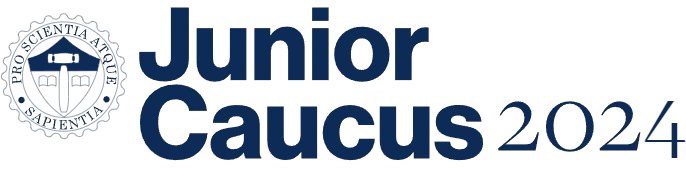
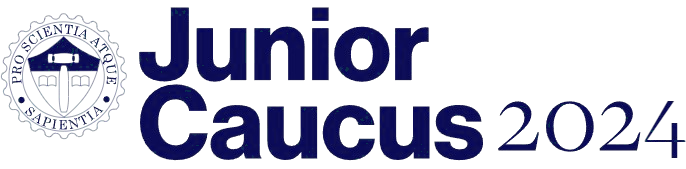
Co-authored-by: Ardian Agoes <ardianagoes@users.noreply.github.com>

diff --git a/src/comps/Contact.jsx b/src/comps/Contact.jsx
@@ -40,6 +40,22 @@ const Contact = () => {
       <Typography variant="body1" align="center">
         © 2024 Junior Caucus.
       </Typography>
+      <Typography variant="body1" align="center" class="thanks">
+        Special thanks to our Junior Caucus IT Team:
+      </Typography>
+      <Box className="developer-columns">
+        <Box className="developer-column" align="center">
+          <Typography variant="body1">Kalimul Kaif</Typography>
+          <Typography variant="body1">David Lee</Typography>
+          <Typography variant="body1">Ting Ting Zhang</Typography>
+        </Box>
+        <Box className="divider" />
+        <Box className="developer-column" align="center">
+          <Typography variant="body1">Jiewen Huang</Typography>
+          <Typography variant="body1">Ardian Agoes</Typography>
+          <Typography variant="body1">Alvin Sze</Typography>
+        </Box>
+      </Box>
       <Typography variant="body1" align="center">
         Co-Presidents:
         <Link
@@ -92,22 +108,6 @@ const Contact = () => {
         </Link>
       </Typography>
       <br />
-      <Typography variant="body1" align="center">
-        Special thanks to our Junior Caucus IT Team:
-      </Typography>
-      <Box className="developer-columns">
-        <Box className="developer-column" align="center">
-          <Typography variant="body1">Kalimul Kaif</Typography>
-          <Typography variant="body1">David Lee</Typography>
-          <Typography variant="body1">Ting Ting Zhang</Typography>
-        </Box>
-        <Box className="divider" />
-        <Box className="developer-column" align="center">
-          <Typography variant="body1">Jiewen Huang</Typography>
-          <Typography variant="body1">Ardian Agoes</Typography>
-          <Typography variant="body1">Alvin Sze</Typography>
-        </Box>
-      </Box>
     </Box>
   );
 };

diff --git a/src/pages/Jprom.css b/src/pages/Jprom.css
@@ -1,5 +1,22 @@
 @import url("https://fonts.googleapis.com/css2?family=Lora:wght@400;700&display=swap");
 
+.fundraisingTitleCaption{
+  display: flex;
+  flex-direction: column;
+}
+.fundraisingImg{
+  display: flex;
+  flex-direction: row;
+}
+.jpromImage{
+  border-style: inset;
+  border-color:white;
+  border-radius: 15%;
+  max-width: 100em;
+  height: 35em;
+  margin-right: 15em;
+  margin-top: 5em;
+}
 .jprom-page {
   background-image: url(../../public/images/backgroundJPROM.svg);
   background-position: center;
@@ -15,8 +32,13 @@
 }
 .fundRaising {
   display: flex;
-  justify-content: center;
+  justify-content: left;
+  max-width: 75%;
+  padding-left: 60px;
+  overflow: hidden;
+  text-wrap: nowrap
 }
+
 .navbar {
   position: relative;
   width: 100%;
@@ -32,17 +54,22 @@
 .caption {
   border-style: inset;
   border-radius: 25px;
-  padding: 20px;
+  padding: 30px;
   background-color: #0e2b54;
   font-weight: 400;
   border-width: 3px;
   margin-bottom: 300px;
   color: white;
+  font-size: 30px;
+  max-width: 75%;
+  line-height: 50px;
 }
 
 .caption-container {
-  padding-top: 10px;
+  padding-top: 50px;
   display: flex;
-  justify-content: center;
-  align-items: center;
+  flex-direction: column;
+  justify-content: left;
+  align-items: left;
+  padding-left: 60px;
 }

diff --git a/src/pages/Jprom.jsx b/src/pages/Jprom.jsx
@@ -11,7 +11,10 @@ export default function Jprom() {
 
       <Box className="content">
         <Box className="info">
-          <Box className="fundRaising">
+          <Box className="fundraisingImg">
+          <Box className="fundraisingTitleCaption">
+
+            <Box className="fundRaising">
             <Typography
               variant="h3"
               className="header"
@@ -22,7 +25,7 @@ export default function Jprom() {
           </Box>
           <Box className="caption-container">
             <Box className="caption">
-              <Typography variant="body" className="desc">
+              <Typography variant="body" className="desc" style={{ fontFamily: "Baskervville SC" }}>
                 For Junior Prom to be as affordable as possible, Junior Caucus
                 has several initiatives dedicated towards fundraising to
                 contribute to this cause. The intended goal is to raise $15,000
@@ -30,6 +33,12 @@ export default function Jprom() {
               </Typography>
             </Box>
           </Box>
+          </Box>
+          <img 
+          src = "/images/davidHotImage.png"
+          alt = "jpromimage"
+          className = "jpromImage"/>
+        </Box>
         </Box>
       </Box>
     </Box>

diff --git a/src/pages/Home.css b/src/pages/Home.css
@@ -19,7 +19,7 @@
   background-position: center;
   background-size: cover;
   background-color: #ede8f5;
-  color: #0e2b54;
+  color: #444484;
   min-height: 100vh;
   width: 100vw;
   overflow-x: hidden;
@@ -175,20 +175,22 @@
 
 .left-section {
   flex: 1 1 50%;
-  max-width: 49%;
+  max-width: 48%;
   display: flex;
   flex-direction: column;
   overflow: hidden;
-  padding-left: 1.5em;
+  padding-left: 11.5em;
+  padding-right: 50px;
 }
 
 .calendar-section {
   flex: 1 1 50%;
-  max-width: 49%;
+  max-width: 50%;
   display: flex;
   flex-direction: column;
   overflow: hidden;
-  padding-right: 1em;
+  padding-right:11.5em;
+  padding-left: 50px;
 }
 
 .schedule-title,
@@ -196,13 +198,14 @@
   font-size: 5rem;
   font-family: "Lora" !important;
   text-align: center;
+  
 }
 
 .left-side,
 .calendar {
   flex: 1 1 50%;
   box-sizing: border-box;
-  border: 5px solid #0e2b54;
+  border: 3px solid #0e2b54;
   gap: 2px;
   padding: 0;
   margin: 0;
@@ -239,7 +242,7 @@
   width: 100%;
   box-sizing: border-box;
   border-style: solid;
-  border-width: 6px;
+  border-width: 3px;
   border-color: #0e2b54;
   justify-content: center;
 }

diff --git a/src/comps/Navbar.css b/src/comps/Navbar.css
@@ -15,7 +15,7 @@
   justify-content: space-between;
   align-items: center;
   width: 100%;
-  padding: 15px;
+  padding: 30px;
 }
 
 .menu {
@@ -112,15 +112,16 @@
 }
 
 .junior-logo {
-  max-width: 100%;
+  max-width: 20em;
   display: block;
+  height: auto;
 }
 
 /* Dropdown Container */
 .nav-dropdown {
   position: relative;
   display: inline-block;
-  font-size: 1.5rem;
+  font-size: 1.75rem;
 }
 
 .dropdown-content {
@@ -135,8 +136,8 @@
 
 .nav-dropdown {
   text-decoration: none;
-  text-decoration-color: #0e2b54;
-  color: #0e2b54;
+  text-decoration-color: #444484;
+  color: #444484;
 }
 
 a:link {
@@ -145,14 +146,14 @@ a:link {
 
 .nav-menu-item {
   text-decoration: none;
-  text-decoration-color: #0e2b54;
-  color: #0e2b54;
+  text-decoration-color: #444484;
+  color: #444484;
 }
 
 .menu .nav-menu-item {
   text-decoration: none;
-  text-decoration-color: #0e2b54;
-  color: #0e2b54;
+  text-decoration-color: #444484;
+  color: #444484;
 }
 
 .dropdown-content .nav-menu-item {

diff --git a/src/pages/Home.jsx b/src/pages/Home.jsx
@@ -86,7 +86,7 @@ export default function Home() {
             </Box>
           </Box>
           <Box className="design-container">
-            <img src="/images/stuyvesant.png" className="stuyvesant-image" />
+            <img src="/images/stuyvesant.png" alt="stuy" className="stuyvesant-image" />
           </Box>
           <Box className="magazine-design">
             <Box className="magazine-container">

diff --git a/src/comps/Contact.css b/src/comps/Contact.css
@@ -9,8 +9,8 @@
   padding: 10px 0;
   margin: 0;
   text-align: center;
-  color: #0e2b54;
-  -webkit-text-stroke: 0.5px #0e2b54;
+  color: #444484;
+  -webkit-text-stroke: 0.5px #444484;
   border-top: 3px solid rgb(255, 255, 255);
   overflow: hidden;
 }
@@ -42,6 +42,7 @@
   justify-content: center;
   align-items: center;
   margin-top: 10px;
+  padding-bottom: 10px;
 }
 
 .developer-column {

diff --git a/src/pages/About.jsx b/src/pages/About.jsx
@@ -14,7 +14,7 @@ export default function About() {
 
       <Box className="content">
         <Box className="presidents">
-          <Typography className="copresidents" variant="h1">
+          <Typography className="copresidents" variant="h1" style={{ fontFamily: "Baskervville SC" }}>
             Co-Presidents
           </Typography>
           <Box className="box-item">

diff --git a/src/comps/NewslettersData.jsx b/src/comps/NewslettersData.jsx
@@ -16,7 +16,7 @@ export default function NewslettersData() {
 
   return (
     <Box className="newsletters-container">
-      <Typography variant="h1" className="newsletters-title">
+      <Typography variant="h1" className="newsletters-title" style={{ fontFamily: "Baskervville SC" }}>
         Newsletters
       </Typography>
       <Box className="newsletters-list">

diff --git a/src/pages/Newsletters.css b/src/pages/Newsletters.css
@@ -62,7 +62,6 @@ body {
 }
 
 .newsletters-title {
-  text-shadow: 1px 1px 4px #0e2b54;
   border-top: 5px ridge #0e2b54;
   border-bottom: 5px ridge #0e2b54;
   border-left: none;
@@ -71,7 +70,6 @@ body {
 
 .latest-title {
   padding-top: 2rem;
-  text-shadow: 1px 1px 4px #0e2b54;
   font-family: "Baskervville SC" !important;
 }
 

diff --git a/src/pages/About.css b/src/pages/About.css
@@ -25,6 +25,7 @@ body {
   position: relative;
   width: 100%;
   z-index: 1;
+  padding-bottom: 50px;
 }
 
 .content {
@@ -96,8 +97,7 @@ body {
   margin: 0 auto;
   font-weight: 400;
   margin: auto;
-  white-space: nowrap;
-}
+  white-space: nowrap;}
 
 .sub-box .name-typography {
   font-weight: 900;

diff --git a/src/comps/Navbar.jsx b/src/comps/Navbar.jsx
@@ -38,7 +38,7 @@ const Navbar = (props) => {
           <Link
             href="/people"
             className="nav-menu-item"
-            style={{ fontSize: "1.5rem" }}
+            style={{ fontSize: "1.75rem" }}
           >
             People
           </Link>
